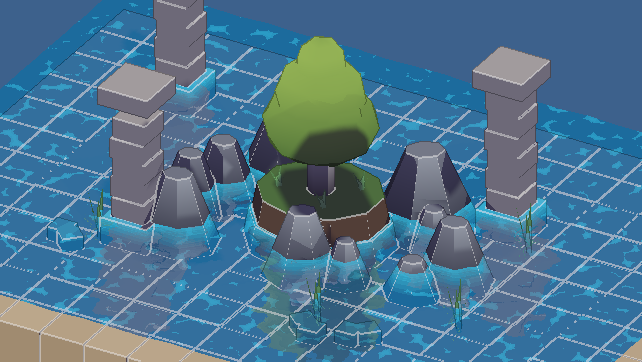
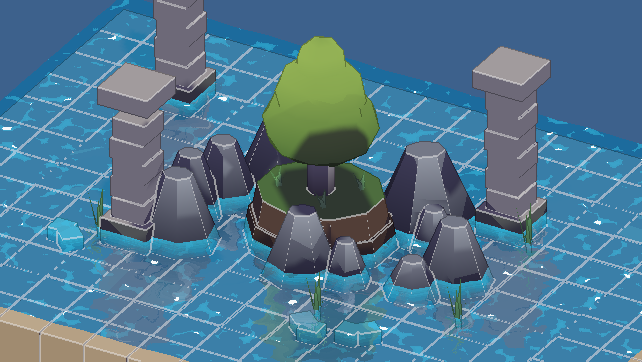
feat(water): adicionar espuma branca sutil nos pontos mais altos das ondulacoes

diff --git a/.agents/rules/regras_de_agua_ondulacoes_e_reflexos_espelhados_blender_mcp_godot.md b/.agents/rules/regras_de_agua_ondulacoes_e_reflexos_espelhados_blender_mcp_godot.md
@@ -161,6 +161,11 @@ uniform float reflection_strength : hint_range(0.0, 1.0) = 0.45;
 uniform float reflection_distortion_px : hint_range(0.0, 6.0) = 1.8;
 uniform float specular_glint_threshold : hint_range(0.5, 0.99) = 0.88;
 
+group_uniforms Foam;
+uniform vec3 foam_color : source_color = vec3(1.0, 1.0, 1.0);
+uniform float wave_crest_foam_threshold : hint_range(0.70, 0.99) = 0.86;
+uniform float wave_crest_voronoi_threshold : hint_range(0.50, 0.99) = 0.76;
+
 varying vec3 v_world_pos;
 varying vec3 v_world_normal;
 varying vec4 v_flow_data;
@@ -252,6 +257,10 @@ void fragment() {
 	float caustic_band = step(0.72, v_wave);
 	float crest_turbid = clamp(caustic_band * 0.65 + step(specular_glint_threshold, v_wave) * 0.35, 0.0, 1.0);
 	
+	// Espuma branca sutil somente no ponto mais alto da ondulação (cristas de onda)
+	// Quantidade reduzida: apenas no ápice da marola combinada com o pico da célula Voronoi
+	float crest_foam = step(wave_crest_foam_threshold, wave_curr) * step(wave_crest_voronoi_threshold, v_wave);
+	
 	// Fator total de embaçamento/turbidez: ativo nas bordas e cristas das ondas
 	float turbid_factor = clamp(shoreline_turbid * 0.90 + crest_turbid * 0.70, 0.0, 1.0);
 	
@@ -333,6 +342,11 @@ void fragment() {
 	vec3 surface_composite = underwater_floor;
 	if (reflection_weight > 0.0) {
 		surface_composite = mix(underwater_floor, reflected_scene, reflection_weight);
+	}
+	
+	// Espuma branca aplicada somente no ponto mais alto da ondulação
+	if (crest_foam > 0.0) {
+		surface_composite = mix(surface_composite, foam_color, 0.92);
 	}
 	
 	// Aplicação direta no ALBEDO com opacidade total (sem acúmulo de camadas transparentes)
